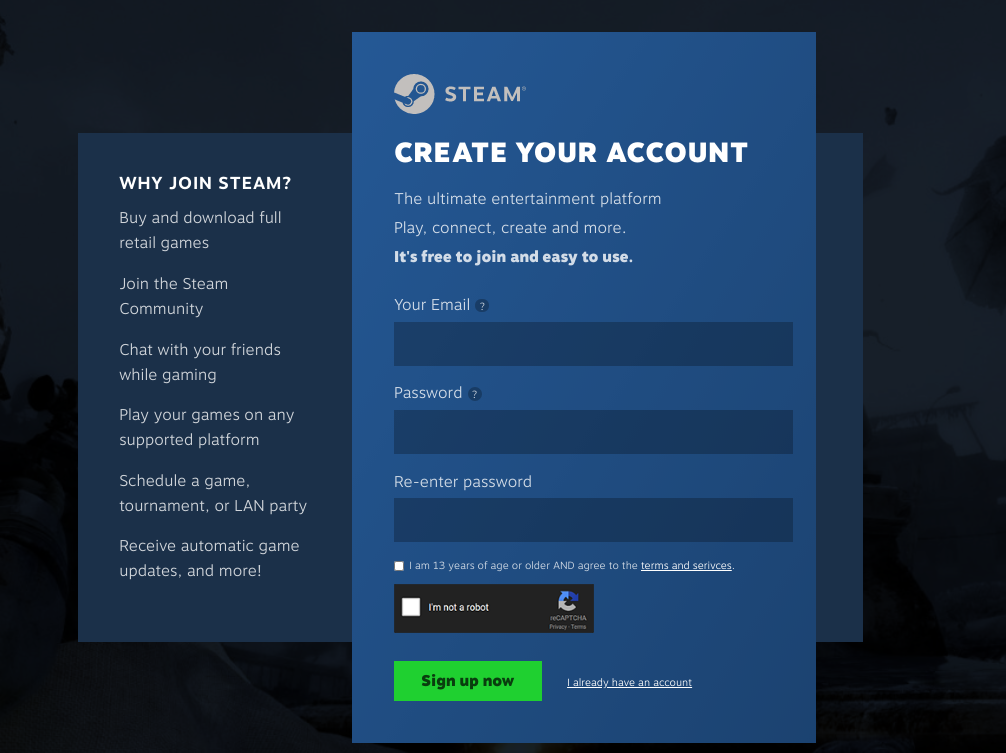
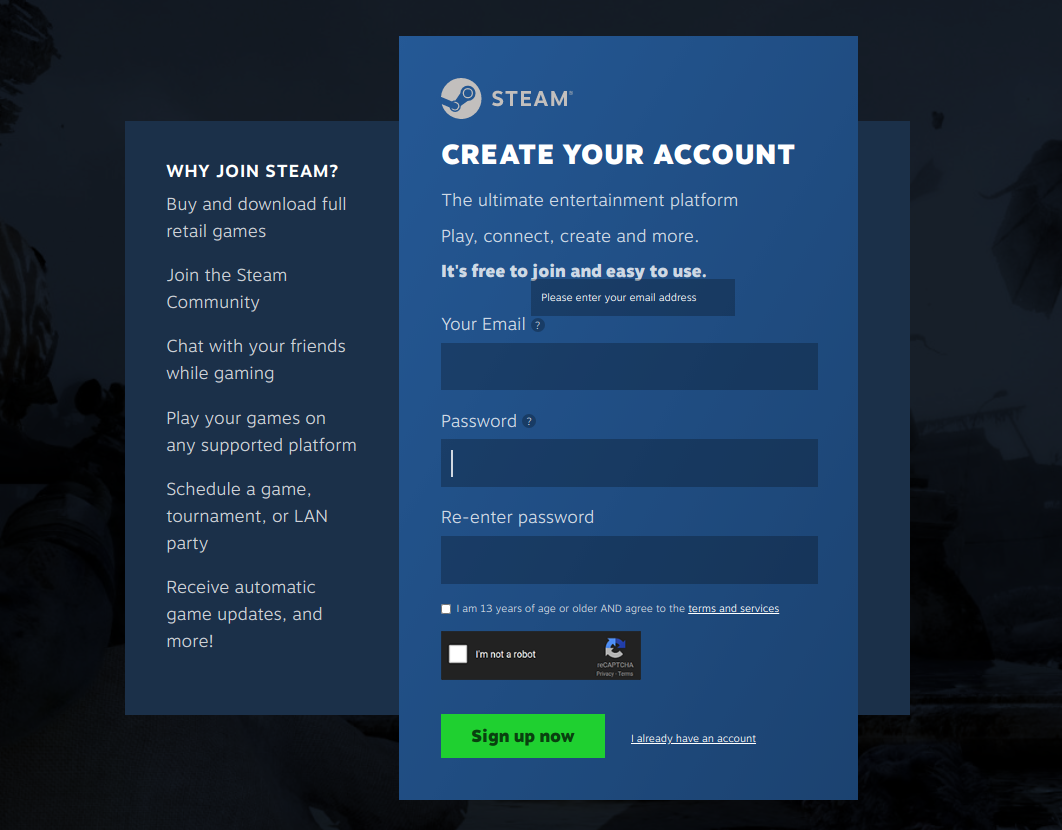
signup complete

Changed region(s): [[0.0, 0.0305, 0.8628, 1.0], [0.8012, 0.1222, 0.8628, 0.1833]]

diff --git a/signup-form/style.css b/signup-form/style.css
@@ -38,10 +38,21 @@ body {
           align-items: center;
   font-family: motiva-sans, sans-serif;
   background-color: var(--clr-4);
+  background-image: url(/signup-form/steam-bg.jpg);
+  background-size: cover;
+  background-blend-mode: multiply;
   color: var(--clr-body);
   font-size: var(--fs-1);
   font-weight: var(--fw-1);
   line-height: 1.6;
+}
+
+a {
+  color: var(--clr-1);
+}
+
+a:hover {
+  color: inherit;
 }
 
 p {
@@ -56,11 +67,22 @@ strong {
   height: 50px;
 }
 
+.flex-center {
+  display: -webkit-box;
+  display: -ms-flexbox;
+  display: flex;
+  -webkit-box-align: center;
+      -ms-flex-align: center;
+          align-items: center;
+}
+
 .title,
 .subheading {
   color: var(--clr-1);
   text-transform: uppercase;
   letter-spacing: 1px;
+  line-height: 1;
+  margin: 0.6em 0;
 }
 
 .steam-signup-form {
@@ -69,8 +91,8 @@ strong {
   width: 960px;
   -ms-grid-rows: (auto)[3];
       grid-template-rows: repeat(3, auto);
-  -ms-grid-columns: 35% 1fr 1em;
-      grid-template-columns: 35% 1fr 1em;
+  -ms-grid-columns: 35% minmax(500px, 1fr) 1em;
+      grid-template-columns: 35% minmax(500px, 1fr) 1em;
   position: relative;
 }
 
@@ -79,7 +101,10 @@ strong {
       -ms-flex-order: 2;
           order: 2;
   background-color: var(--clr-2);
+  background-image: -webkit-gradient(linear, left top, right bottom, from(rgba(0, 0, 0, 0)), to(var(--clr-dark)));
+  background-image: linear-gradient(to bottom right, rgba(0, 0, 0, 0), var(--clr-dark));
   padding: 3rem;
+  width: 93%;
   grid-row: 1 / -1;
   -ms-grid-column: 2;
   -ms-grid-column-span: 1;
@@ -139,10 +164,85 @@ strong {
 }
 
 .form__label {
-  display: block;
+  display: -webkit-box;
+  display: -ms-flexbox;
+  display: flex;
 }
 
 .form__text {
-  margin-bottom: 0.25em;
+  all: unset;
+  display: block;
+  margin: 0.25em 0 1em;
+  background: var(--clr-dark);
+  width: 95%;
+  padding: 0.6em;
+}
+
+.form__checkbox {
+  margin-right: 0.5em;
+}
+
+.form__tooltip {
+  font-size: var(--fs-small);
+  background: var(--clr-dark);
+  display: inline-block;
+  width: 1rem;
+  height: 1rem;
+  border-radius: 50%;
+  text-align: center;
+  -ms-flex-item-align: center;
+      -ms-grid-row-align: center;
+      align-self: center;
+  margin-left: 0.5em;
+  position: relative;
+}
+
+.form__tooltip::after {
+  content: attr(data-tooltip);
+  display: none;
+  position: absolute;
+  padding: 1em;
+  background: var(--clr-dark);
+  color: var(--clr-1);
+  bottom: 1.5em;
+  text-align: left;
+  width: 250px;
+}
+
+.form__tooltip:hover::after {
+  display: block;
+}
+
+.fineprint {
+  font-size: var(--fs-small);
+}
+
+.recaptcha {
+  margin: 0.5em 0 1em;
+}
+
+.button {
+  all: unset;
+  display: inline-block;
+  background: var(--clr-5);
+  padding: 0.5em 1.75em;
+  color: rgba(0, 0, 0, 0.7);
+  cursor: pointer;
+  font-weight: var(--fw-3);
+  -webkit-transform: scale(1);
+          transform: scale(1);
+  -webkit-transition: -webkit-transform ease-in-out 150;
+  transition: -webkit-transform ease-in-out 150;
+  transition: transform ease-in-out 150;
+  transition: transform ease-in-out 150, -webkit-transform ease-in-out 150;
+}
+
+.button:hover {
+  -webkit-transform: scale(1.1);
+          transform: scale(1.1);
+}
+
+.button + * {
+  margin-left: 2em;
 }
 /*# sourceMappingURL=style.css.map */

diff --git a/signup-form/style.scss b/signup-form/style.scss
@@ -35,10 +35,21 @@ body {
   align-items: center;
   font-family: motiva-sans, sans-serif;
   background-color: var(--clr-4);
+  background-image: url(/signup-form/steam-bg.jpg);
+  background-size: cover;
+  background-blend-mode: multiply;
   color: var(--clr-body);
   font-size: var(--fs-1);
   font-weight: var(--fw-1);
   line-height: 1.6;
+}
+
+a {
+  color: var(--clr-1);
+
+  &:hover {
+    color: inherit;
+  }
 }
 
 p {
@@ -53,25 +64,38 @@ strong {
   height: 50px;
 }
 
+.flex-center {
+  display: flex;
+  align-items: center;
+}
+
 .title,
 .subheading {
   color: var(--clr-1);
   text-transform: uppercase;
   letter-spacing: 1px;
+  line-height: 1;
+  margin: 0.6em 0;
 }
 
 .steam-signup-form {
   display: grid;
   width: 960px;
   grid-template-rows: repeat(3, auto);
-  grid-template-columns: 35% 1fr 1em;
+  grid-template-columns: 35% minmax(500px, 1fr) 1em;
   position: relative;
 }
 
 .front {
   order: 2;
   background-color: var(--clr-2);
+  background-image: linear-gradient(
+    to bottom right,
+    rgba(0, 0, 0, 0),
+    var(--clr-dark)
+  );
   padding: 3rem;
+  width: 93%;
   grid-row: 1 / -1;
   grid-column: 2 / 3;
 }
@@ -122,10 +146,76 @@ strong {
   margin: 1.5em 0 0;
 
   &__label {
-    display: block;
+    display: flex;
   }
 
   &__text {
-    margin-bottom: 0.25em;
+    all: unset;
+    display: block;
+    margin: 0.25em 0 1em;
+    background: var(--clr-dark);
+    width: 95%;
+    padding: 0.6em;
+  }
+
+  &__checkbox {
+    margin-right: 0.5em;
+  }
+
+  &__tooltip {
+    font-size: var(--fs-small);
+    background: var(--clr-dark);
+    display: inline-block;
+    width: 1rem;
+    height: 1rem;
+    border-radius: 50%;
+    text-align: center;
+    align-self: center;
+    margin-left: 0.5em;
+    position: relative;
+
+    &::after {
+      content: attr(data-tooltip);
+      display: none;
+      position: absolute;
+      padding: 1em;
+      background: var(--clr-dark);
+      color: var(--clr-1);
+      bottom: 1.5em;
+      text-align: left;
+      width: 250px;
+    }
+
+    &:hover::after {
+      display: block;
+    }
+  }
+}
+
+.fineprint {
+  font-size: var(--fs-small);
+}
+
+.recaptcha {
+  margin: 0.5em 0 1em;
+}
+
+.button {
+  all: unset;
+  display: inline-block;
+  background: var(--clr-5);
+  padding: 0.5em 1.75em;
+  color: rgba(0, 0, 0, 0.7);
+  cursor: pointer;
+  font-weight: var(--fw-3);
+  transform: scale(1);
+  transition: transform ease-in-out 150;
+
+  &:hover {
+    transform: scale(1.1);
+  }
+
+  & + * {
+    margin-left: 2em;
   }
 }

diff --git a/signup-form/index.html b/signup-form/index.html
@@ -37,10 +37,26 @@
         <p><strong>It's free to join and easy to use.</strong></p>
 
         <form class="form">
-          <label class="form__label" for="email">Your Email</label>
+          <label class="form__label" for="email"
+            >Your Email
+
+            <span
+              class="form__tooltip"
+              data-tooltip="Please enter your email address"
+              >?</span
+            >
+          </label>
           <input type="email" class="form__text" id="email" name="email" />
 
-          <label class="form__label" for="password">Password</label>
+          <label class="form__label" for="password"
+            >Password
+
+            <span
+              class="form__tooltip"
+              data-tooltip="Minimum 12 characters, at least one capital and one number"
+              >?</span
+            >
+          </label>
           <input
             type="password"
             class="form__text"
@@ -54,11 +70,17 @@
           <input
             type="password"
             name="password-reenter"
+            class="form__text"
             id="password-reenter"
           />
 
-          <p class="fineprint">
-            <input type="checkbox" name="agreement" id="agreement" />
+          <p class="fineprint flex-center">
+            <input
+              class="form__checkbox"
+              type="checkbox"
+              name="agreement"
+              id="agreement"
+            />
             <label for="agreement"
               >I am 13 years of age or older AND agree to the
               <a href="#">terms and services</a></label
@@ -73,7 +95,7 @@
             />
           </p>
 
-          <button>Sign up now</button>
+          <button class="button">Sign up now</button>
 
           <a href="#" class="fineprint">I already have an account</a>
         </form>

diff --git a/index.html b/index.html
@@ -69,7 +69,7 @@
     </style>
   </head>
   <body>
-    <h1>100 Projects Challenge</h1>
+    <h1>100 Projects Challenge (in progress)</h1>
 
     <div class="tags">
       <ul>
